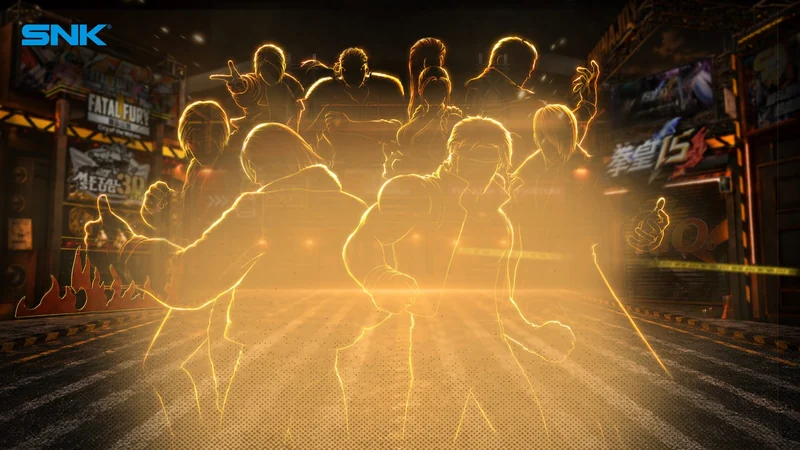
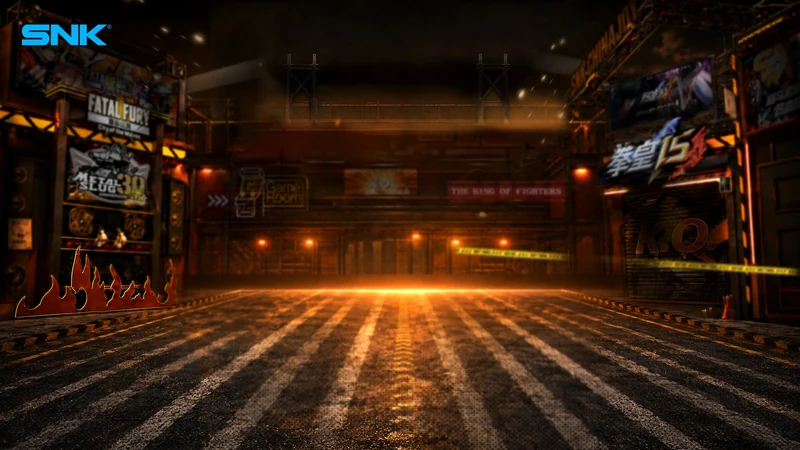
fix(snk): clean street frame with no rim light left over

diff --git a/src/data/designs.ts b/src/data/designs.ts
@@ -274,8 +274,8 @@ export const designs: Record<string, DesignData> = {
     },
     steps: [
       {
-        label: "空镜与光位",
-        note: "街区先铺完，人物只留一圈描边光，九个人的站位在这步定死。",
+        label: "空镜",
+        note: "街区、招牌、灯都铺满，人物还没进场，地面那点亮光留给九个人。",
         shot: "/design/snk/snk-step1.webp",
       },
       {
